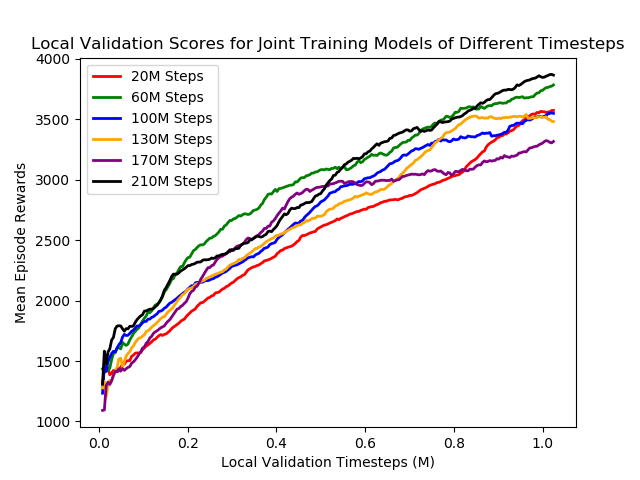
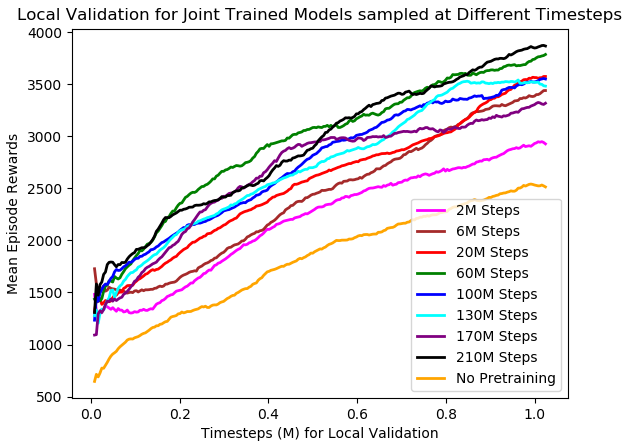
Updated joint training local validation chart

diff --git a/_posts/2018-06-11-sonic-rl.md b/_posts/2018-06-11-sonic-rl.md
@@ -122,11 +122,11 @@ Notice that I **did not apply this reward shaping trick during the joint trainin
 
 Since a pretrained model is used to jumpstart the training for test evaluation, a smaller entropy constant (for PPO loss function) of 0.001 is used so that the agent will better leverage experience from pretrained model.
 
-**Avoid Overfitting**. To prevent the joint agent from overfitting to the training levels, I sampled several joint trained agents at various points of joint training and performed a cross validation analysis on the local validation levels. Below is the chart showing the training curve (on the local validation set) of several PPO models initialized by different joint agents sampled at various points during joint training. The sampled points are 20M, 60M, 100M, 130M, 170M, and 210M total timesteps. The training curve for PPO with no pretraining (bottom orange) is also included for comparison.
+**Avoid Overfitting**. To prevent the joint agent from overfitting to the training levels, I sampled several joint trained agents at various points of joint training and performed a cross validation analysis on the local validation levels. Below is the chart showing the training curve (on the local validation set) of several PPO models initialized by different joint agents sampled at various points during joint training. The sampled points are 2M, 6M, 20M, 60M, 100M, 130M, 170M, and 210M total timesteps. The training curve for PPO with no pretraining (bottom orange) is also included for comparison.
 
-![Local Validation Joint Model](/img/sonic_chart2.png){:width="600"}<br />
+![Local Validation Joint Model](/img/sonic_chart3.png){:width="600"}<br />
 
-First thing we notice is that **PPO agents initialized with pretrained models work a lot better than the PPO agent with no pretraining (bottom orange)**. Second, we observe that the differences in local validation scores of the PPO agents initialized with joint models sampled at different timesteps are well within the score variance, which is around +/- 1000. Hence, I simply picked the model from around 50 million steps to be the joint agent for initializing the PPO agent for the leaderboard test levels.
+We notice that **PPO agents initialized with pretrained models work a lot better than the PPO agent with no pretraining (bottom orange)**. However, the improvement in local validation score stopped after around 20M timesteps. Agents initialized by joint model trained beyond 20 million timesteps do not translate to improvement in local validation score. This is probably due to overfitting to the training sets. Hence, I simply picked the model from around 30 million timesteps to be the joint agent for initializing the PPO agent for the leaderboard test levels.
 
 As expected, using joint agent trained on 47 pretrained levels to jumpstart PPO training significantly improve the leaderboard score. **The leaderboard score improved from 3200 to above 4000 consistently**. Though such improvement is well documented in [OpenAI’s technical report](https://arxiv.org/abs/1804.03720){:target="_blank"}, being able to replicate the results still brought a great level of satisfaction! But, despite the significant score improvement, there still exists a noticeable gap between my score and the top score of around 6000. Longing to resolve the difference, I subsequently made several failed attempts to boost score (to be covered below), but none of them worked.
 
